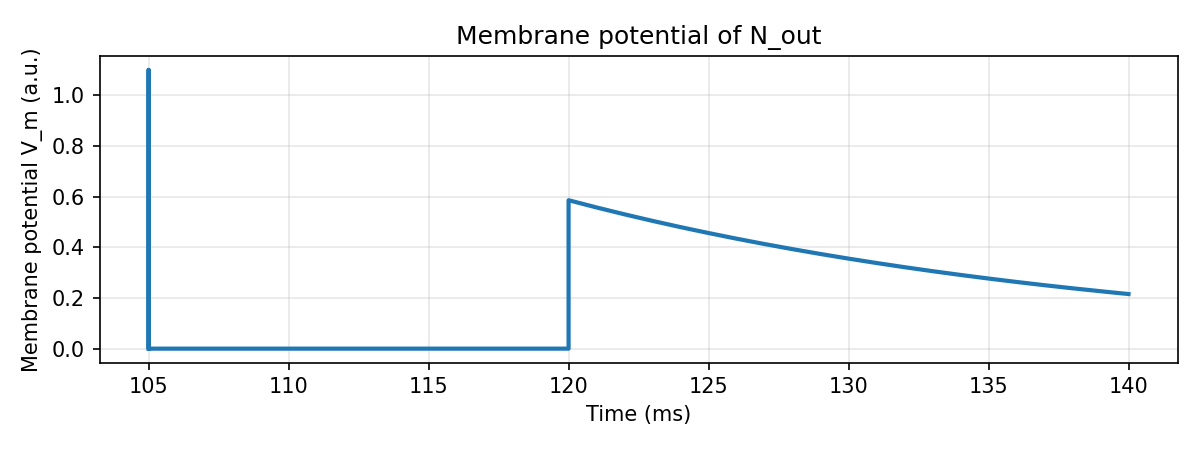
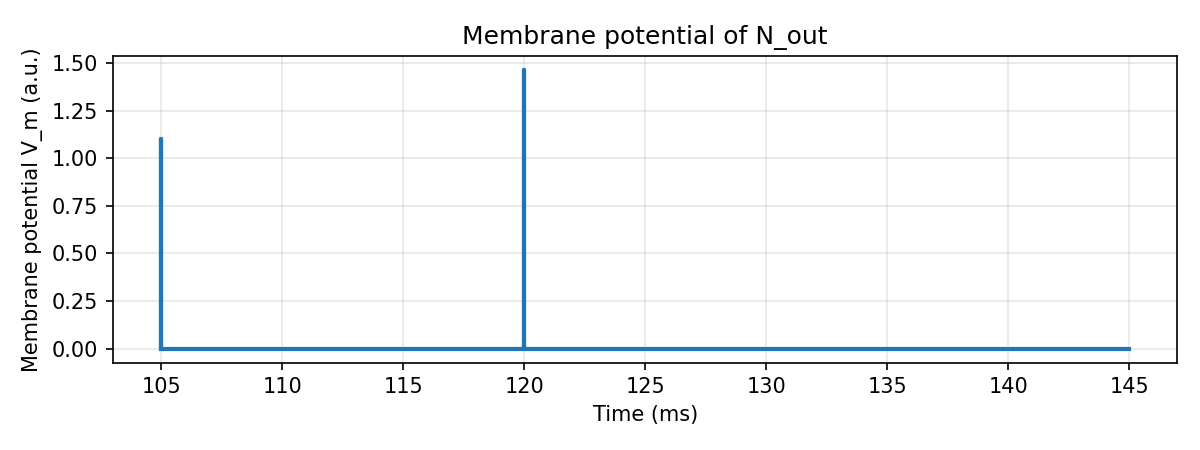
Add CLI and parameterized scenario runner (#5)

diff --git a/main.py b/main.py
@@ -19,6 +19,8 @@ import math
 import random
 from dataclasses import dataclass, field
 from typing import Callable, Dict, List, Optional, Tuple
+import argparse
+import sys
 
 
 # ----------------------------- Utility Types ----------------------------- #
@@ -489,5 +491,220 @@ def run_demo() -> None:
     print(f"\nSaved membrane potential plot to: {plot_file}")
 
 
+def run_scenario(
+    n0_spike_time: float = 100.0,
+    n1_spike_time: float = 115.0,
+    s0_weight: float = 1.10,
+    s1_weight: float = 0.60,
+    delay: float = 5.0,
+    w_min: float = 0.0,
+    w_max: float = 2.0,
+    plot_file: Optional[str] = "snn_results.png",
+    enable_acceptance: bool = True,
+) -> int:
+    """Run a parameterized 2->1 scenario; return 0 on acceptance pass else 1.
+
+    This mirrors run_demo() but allows CLI-provided values and prints
+    acceptance checks that define correctness for manual testing.
+    """
+    # Validate inputs
+    if not (0.0 <= n0_spike_time <= 5000.0):
+        print(f"[ERROR] n0_spike_time out of range [0,5000]: {n0_spike_time}", file=sys.stderr)
+        return 2
+    if not (0.0 <= n1_spike_time <= 5000.0):
+        print(f"[ERROR] n1_spike_time out of range [0,5000]: {n1_spike_time}", file=sys.stderr)
+        return 2
+    if not (0.0 < delay <= 1000.0):
+        print(f"[ERROR] delay out of range (0,1000]: {delay}", file=sys.stderr)
+        return 2
+    if not (w_min < w_max):
+        print(f"[ERROR] w_min must be < w_max (got {w_min} >= {w_max})", file=sys.stderr)
+        return 2
+    if not (w_min <= s0_weight <= w_max):
+        print(f"[ERROR] s0_weight {s0_weight} not in [{w_min},{w_max}]", file=sys.stderr)
+        return 2
+    if not (w_min <= s1_weight <= w_max):
+        print(f"[ERROR] s1_weight {s1_weight} not in [{w_min},{w_max}]", file=sys.stderr)
+        return 2
+
+    net = Network()
+
+    # Create neurons
+    n0 = net.add_neuron("N0", is_input_generator=True)
+    n1 = net.add_neuron("N1", is_input_generator=True)
+    n_out = net.add_neuron(
+        "N_out",
+        v_rest=0.0,
+        v_reset=0.0,
+        v_threshold=1.0,
+        tau_m=20.0,
+        refractory_period=5.0,
+        is_input_generator=False,
+    )
+
+    net.track_neuron_vm(n_out)
+
+    # Connect synapses with same delay, parameterized weights
+    s0 = net.connect(
+        n0, n_out, weight=float(s0_weight), delay=float(delay), label="S0",
+        tau_plus=20.0, tau_minus=20.0, a_plus=0.05, a_minus=0.05,
+        w_min=float(w_min), w_max=float(w_max),
+    )
+    s1 = net.connect(
+        n1, n_out, weight=float(s1_weight), delay=float(delay), label="S1",
+        tau_plus=20.0, tau_minus=20.0, a_plus=0.05, a_minus=0.05,
+        w_min=float(w_min), w_max=float(w_max),
+    )
+
+    # Print initial weights
+    print("Initial Weights:")
+    print(f"  S0 (N0->N_out): {net.synapses_by_id[s0].weight:.6f}")
+    print(f"  S1 (N1->N_out): {net.synapses_by_id[s1].weight:.6f}")
+
+    # Schedule spikes
+    net.schedule_input_spike(n0, float(n0_spike_time))
+    net.schedule_input_spike(n1, float(n1_spike_time))
+
+    # Run simulation
+    net.run()
+
+    # Print spike log
+    print("\nEvent-Driven Spike Log (time ms, neuron):")
+    for t, name in sorted(net.spike_log, key=lambda x: x[0]):
+        print(f"  {t:7.3f}  {name}")
+
+    # Print final weights
+    print("\nFinal Weights:")
+    final_w0 = net.synapses_by_id[s0].weight
+    final_w1 = net.synapses_by_id[s1].weight
+    print(f"  S0 (N0->N_out): {final_w0:.6f}")
+    print(f"  S1 (N1->N_out): {final_w1:.6f}")
+
+    # Plot if requested
+    if plot_file:
+        net.render_tracked_vm_plot(plot_file)
+        print(f"\nSaved membrane potential plot to: {plot_file}")
+
+    if not enable_acceptance:
+        return 0
+
+    # --------------------- Acceptance criteria and report --------------------- #
+    print("\nAcceptance checks:")
+    tol = 1e-10
+    t_post_first: Optional[float] = None
+    for t, name in sorted(net.spike_log, key=lambda x: x[0]):
+        if name == "N_out":
+            t_post_first = t
+            break
+
+    # 1) Output neuron spiked at least once if s0_weight >= threshold
+    expected_spike_due_to_s0 = s0_weight >= 1.0
+    has_output_spike = t_post_first is not None
+    if expected_spike_due_to_s0 and has_output_spike:
+        print("  [PASS] Output neuron spiked as expected.")
+        pass_output_spike = True
+    elif expected_spike_due_to_s0 and not has_output_spike:
+        print("  [FAIL] Output neuron did not spike despite S0 >= threshold.")
+        pass_output_spike = False
+    else:
+        # No spike expected if s0 < threshold; still acceptable
+        print("  [INFO] Output spiking not required (S0 below threshold).")
+        pass_output_spike = True
+
+    # 2) S0 direction: if pre arrival <= first post, expect LTP (increase)
+    init_w0 = s0_weight
+    init_w1 = s1_weight
+    t0_arrival = n0_spike_time + delay
+    t1_arrival = n1_spike_time + delay
+    s0_expected_up = has_output_spike and (t0_arrival <= (t_post_first or float("inf")))
+    # Equality (arrival at the same time as post) yields LTP in this event order
+    s1_expected_up = has_output_spike and (t1_arrival <= (t_post_first or float("inf")))
+    s1_expected_down = has_output_spike and (t1_arrival > (t_post_first or float("inf")))
+
+    dw0 = final_w0 - init_w0
+    dw1 = final_w1 - init_w1
+
+    if s0_expected_up and ((dw0 > tol) or (final_w0 >= (w_max - tol))):
+        print(f"  [PASS] S0 LTP occurred or saturated at upper bound (Δw={dw0:+.6f}).")
+        pass_s0 = True
+    elif s0_expected_up and not ((dw0 > tol) or (final_w0 >= (w_max - tol))):
+        print(f"  [FAIL] S0 did not potentiate as expected (Δw={dw0:+.6f}).")
+        pass_s0 = False
+    else:
+        print("  [INFO] No specific S0 change required for this configuration.")
+        pass_s0 = True
+
+    if s1_expected_up and ((dw1 > tol) or (final_w1 >= (w_max - tol))):
+        print(f"  [PASS] S1 LTP occurred or saturated at upper bound (Δw={dw1:+.6f}).")
+        pass_s1_dir = True
+    elif s1_expected_down and ((dw1 < -tol) or (final_w1 <= (w_min + tol))):
+        print(f"  [PASS] S1 LTD occurred or saturated at lower bound (Δw={dw1:+.6f}).")
+        pass_s1_dir = True
+    elif (s1_expected_up or s1_expected_down):
+        print(f"  [FAIL] S1 change direction unexpected (Δw={dw1:+.6f}).")
+        pass_s1_dir = False
+    else:
+        print("  [INFO] No specific S1 change required for this configuration.")
+        pass_s1_dir = True
+
+    # 3) Hard bounds respected
+    bounds_ok = (w_min - tol) <= final_w0 <= (w_max + tol) and (w_min - tol) <= final_w1 <= (w_max + tol)
+    if bounds_ok:
+        print("  [PASS] Weights respect hard bounds [w_min, w_max].")
+    else:
+        print("  [FAIL] Weights violated hard bounds [w_min, w_max].")
+
+    overall_pass = pass_output_spike and pass_s0 and pass_s1_dir and bounds_ok
+    if overall_pass:
+        print("\nRESULT: ALL ACCEPTANCE CHECKS PASSED.")
+        return 0
+    print("\nRESULT: ACCEPTANCE CHECKS FAILED.")
+    return 1
+
+
+def _parse_args(argv: Optional[List[str]] = None) -> argparse.Namespace:
+    parser = argparse.ArgumentParser(
+        description="Run an event-driven SNN demo with parameter overrides and acceptance checks."
+    )
+    parser.add_argument("--n0-spike-time", type=float, default=100.0, help="Spike time for N0 (ms), default 100.0")
+    parser.add_argument("--n1-spike-time", type=float, default=115.0, help="Spike time for N1 (ms), default 115.0")
+    parser.add_argument("--s0-weight", type=float, default=1.10, help="Initial weight for S0, default 1.10")
+    parser.add_argument("--s1-weight", type=float, default=0.60, help="Initial weight for S1, default 0.60")
+    parser.add_argument("--delay", type=float, default=5.0, help="Synaptic delay for S0/S1 (ms), default 5.0")
+    parser.add_argument("--w-min", type=float, default=0.0, help="Hard minimum synaptic weight, default 0.0")
+    parser.add_argument("--w-max", type=float, default=2.0, help="Hard maximum synaptic weight, default 2.0")
+    parser.add_argument("--value", type=float, default=None, help="Single uploaded value to apply (see --value-kind)")
+    parser.add_argument("--value-kind", type=str, choices=["n1_spike_time", "s1_weight"], default="n1_spike_time",
+                        help="Interpretation of --value; default n1_spike_time")
+    parser.add_argument("--no-plot", action="store_true", help="Skip creating the membrane plot")
+    parser.add_argument("--plot-file", type=str, default="snn_results.png", help="Plot output path")
+    parser.add_argument("--no-acceptance", action="store_true", help="Skip acceptance checks")
+    return parser.parse_args(argv)
+
+
+def main_cli(argv: Optional[List[str]] = None) -> int:
+    args = _parse_args(argv)
+    # If a single uploaded value is provided, apply it
+    if args.value is not None:
+        if args.value_kind == "n1_spike_time":
+            args.n1_spike_time = float(args.value)
+        elif args.value_kind == "s1_weight":
+            args.s1_weight = float(args.value)
+    enable_acceptance = not args.no_acceptance
+    plot_file = None if args.no_plot else args.plot_file
+    exit_code = run_scenario(
+        n0_spike_time=args.n0_spike_time,
+        n1_spike_time=args.n1_spike_time,
+        s0_weight=args.s0_weight,
+        s1_weight=args.s1_weight,
+        delay=args.delay,
+        w_min=args.w_min,
+        w_max=args.w_max,
+        plot_file=plot_file,
+        enable_acceptance=enable_acceptance,
+    )
+    return exit_code
+
+
 if __name__ == "__main__":
-    run_demo()
+    sys.exit(main_cli())
